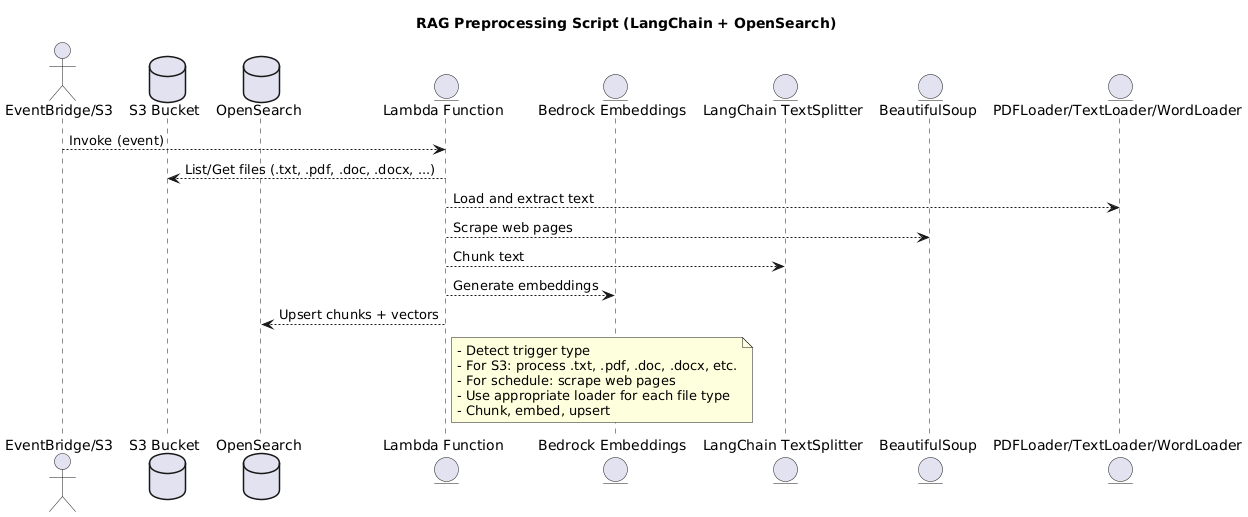
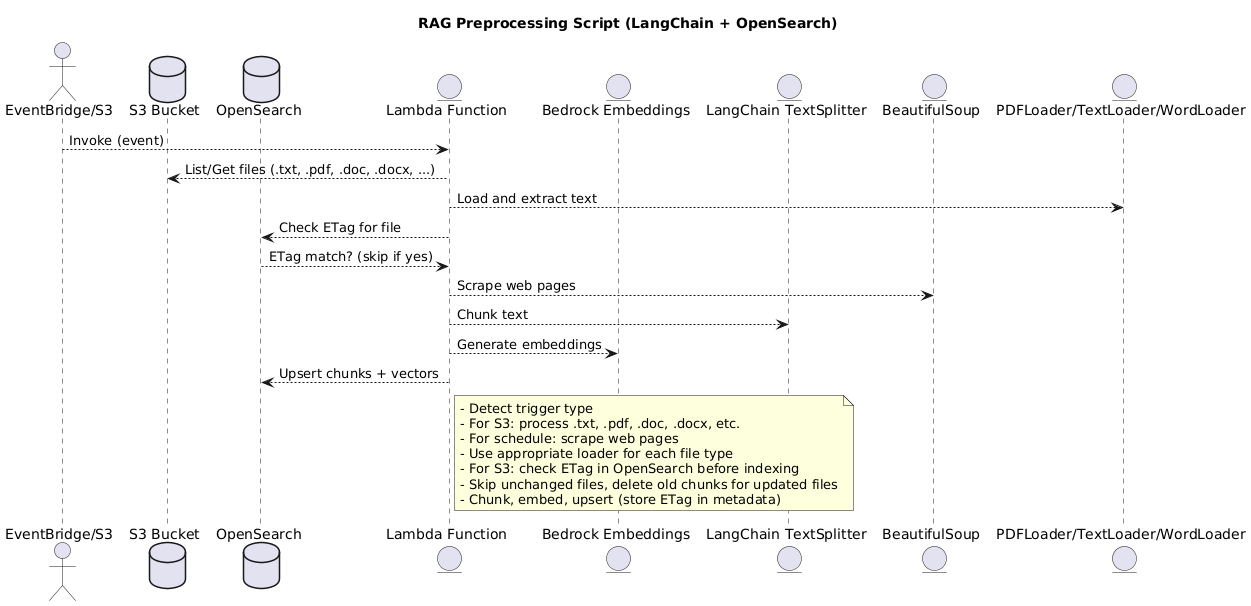
Modified Preprocessing Script

diff --git a/RAGChatbots/Langchain_OpenSearch_Implementation/RAGPreprocessingScript_Langchain.py b/RAGChatbots/Langchain_OpenSearch_Implementation/RAGPreprocessingScript_Langchain.py
@@ -8,22 +8,28 @@ This script preprocesses knowledge base sources (S3 files: .txt, .pdf, .doc, .do
 and stores the resulting vectors in an OpenSearch index for retrieval-augmented generation (RAG) chatbots.
 It is designed to run as an AWS Lambda function, triggered by S3 events or scheduled via EventBridge.
 
+
 Flow Summary:
 -------------
-1. **Trigger**: Invoked by S3 event (file upload) or scheduled EventBridge rule.
+1. **Trigger**: Invoked by S3 event (file upload/update) or scheduled EventBridge rule.
 2. **Source Selection**:
-    - S3 trigger: Processes all .txt, .pdf, .doc, and .docx files in the S3 bucket.
+    - S3 trigger: Processes only the updated .txt, .pdf, .doc, and .docx files in the S3 bucket (using S3 event data).
     - Scheduled trigger: Scrapes and processes specified web pages.
-3. **Text Loading & Chunking**:
+3. **Change Detection & Efficient Indexing**:
+    - For each S3 file, retrieves its ETag (content hash).
+    - Checks OpenSearch for existing chunks with the same filename and ETag.
+    - If already indexed, skips re-indexing.
+    - If changed, deletes old chunks for the file and indexes new ones, storing ETag in metadata.
+4. **Text Loading & Chunking**:
     - Loads text from S3 (.txt, .pdf, .doc, .docx) or scraped web page.
     - Splits text into overlapping chunks using LangChain's `RecursiveCharacterTextSplitter`.
-    - Each chunk is tagged with metadata (source filename or URL).
-4. **Embedding Generation**:
+    - Each chunk is tagged with metadata (source filename or URL, and ETag for S3 files).
+5. **Embedding Generation**:
     - Uses LangChain's `BedrockEmbeddings` (Cohere embed-english-v3 via AWS Bedrock) to generate a vector for each chunk.
-5. **Vector Upsert to OpenSearch**:
+6. **Vector Upsert to OpenSearch**:
     - Chunks and their embeddings are upserted into OpenSearch using LangChain's `OpenSearchVectorSearch` abstraction.
     - If the index does not exist, it is created with k-NN enabled for vector search.
-6. **Completion**:
+7. **Completion**:
     - Logs the number of chunks indexed per source.
     - Ready for retrieval by downstream RAG chatbot.
 
@@ -37,20 +43,24 @@ Key Components:
 - **OpenSearchVectorSearch**: LangChain abstraction for vector similarity search and upsert in OpenSearch.
 - **OpenSearch**: AWS-managed vector database for fast similarity search.
 
+
 Detailed Step-by-Step Flow:
 --------------------------
 1. **Script/Lambda Entry**
     - Entry point is `main(event)` or `lambda_handler(event, context)`.
 
 2. **Trigger Detection**
-    - If the event is an S3 trigger, process S3 files.
+    - If the event is an S3 trigger, process only the updated S3 files referenced in the event.
     - Otherwise, process web pages (scheduled run).
 
-3. **S3 File Processing**
-    - List all objects in the S3 bucket.
-    - For each `.txt`, `.pdf`, `.doc`, `.docx` file:
+3. **S3 File Change Detection & Processing**
+    - For each updated S3 file:
+      - Retrieve its ETag (content hash).
+      - Query OpenSearch for chunks with the same filename and ETag.
+      - If found, skip re-indexing.
+      - If not found or changed, delete old chunks for the file and index new ones, storing ETag in metadata.
       - Download and decode text (using appropriate loader).
-      - Split into chunks with metadata.
+      - Split into chunks with metadata (filename and ETag).
       - Embed and upsert each chunk into OpenSearch.
 
 4. **Web Page Processing**
@@ -61,7 +71,7 @@ Detailed Step-by-Step Flow:
 
 5. **OpenSearch Index Management**
     - Checks if the index exists; creates it with k-NN enabled if not.
-    - Index mapping includes vector, text, and source metadata fields.
+    - Index mapping includes vector, text, source, and ETag metadata fields.
 
 6. **Embedding and Upsert**
     - For each chunk, generates embedding using Bedrock/Cohere.
@@ -121,7 +131,7 @@ import os
 import requests
 from bs4 import BeautifulSoup
 import urllib3
-from langchain_community.document_loaders import TextLoader, PDFLoader, UnstructuredWordDocumentLoader
+from langchain_community.document_loaders import PDFLoader, UnstructuredWordDocumentLoader
 from langchain.text_splitter import RecursiveCharacterTextSplitter
 from langchain_community.embeddings import BedrockEmbeddings
 from langchain_community.vectorstores import OpenSearchVectorSearch
@@ -200,29 +210,69 @@ def load_and_split_text(text, source):
    - Split into chunks with metadata.
    - Embed and upsert each chunk into OpenSearch.
 """
-def process_s3_files():
-    objects = s3.list_objects_v2(Bucket=bucket)
-    for obj in objects.get("Contents", []):
-        key = obj["Key"]
+def process_s3_files(event=None):
+    # Determine which files to process and their ETags
+    keys_to_process = []
+    etags = {}
+    if event and 'Records' in event:
+        for record in event['Records']:
+            s3_info = record['s3']
+            key = s3_info['object']['key']
+            etag = s3_info['object'].get('eTag')
+            keys_to_process.append(key)
+            etags[key] = etag
+    else:
+        objects = s3.list_objects_v2(Bucket=bucket)
+        for obj in objects.get("Contents", []):
+            key = obj["Key"]
+            etag = obj.get("ETag")
+            keys_to_process.append(key)
+            etags[key] = etag
+
+    for key in keys_to_process:
         if key == "kb_index.json":
             continue
         ext = key.strip().lower().split('.')[-1]
-        print(f"Processing file: {key}")
-        text = None
+        etag = etags.get(key)
+        print(f"Processing file: {key} (ETag: {etag})")
+        # Query OpenSearch for existing chunks with this key and ETag
+        query = {
+            "query": {
+                "bool": {
+                    "must": [
+                        {"term": {"source": key}},
+                        {"term": {"etag": etag}}
+                    ]
+                }
+            }
+        }
+        results = opensearch_client.search(index=OPENSEARCH_INDEX, body=query)
+        if results['hits']['total']['value'] > 0:
+            print(f"File {key} with ETag {etag} already indexed. Skipping.")
+            continue  # Already indexed, skip
+
+        # Delete old chunks for this key (if any)
+        delete_query = {
+            "query": {
+                "term": {"source": key}
+            }
+        }
+        opensearch_client.delete_by_query(index=OPENSEARCH_INDEX, body=delete_query)
+
         docs = []
         try:
             file_obj = s3.get_object(Bucket=bucket, Key=key)
             if ext == "txt":
                 text = file_obj["Body"].read().decode("utf-8")
-                docs = load_and_split_text(text, key)
+                docs = text_splitter.create_documents([text], metadatas=[{"source": key, "etag": etag}])
             elif ext == "pdf":
                 with open("/tmp/temp.pdf", "wb") as f:
                     f.write(file_obj["Body"].read())
                 loader = PDFLoader("/tmp/temp.pdf")
                 docs = loader.load()
-                # Add source metadata
                 for d in docs:
                     d.metadata["source"] = key
+                    d.metadata["etag"] = etag
             elif ext in ["doc", "docx"]:
                 with open(f"/tmp/temp.{ext}", "wb") as f:
                     f.write(file_obj["Body"].read())
@@ -230,6 +280,7 @@ def process_s3_files():
                 docs = loader.load()
                 for d in docs:
                     d.metadata["source"] = key
+                    d.metadata["etag"] = etag
         except Exception as e:
             print(f"Failed to process {key}: {e}")
             continue
@@ -243,7 +294,7 @@ def process_s3_files():
                 use_ssl=True,
                 verify_certs=True,
             )
-            print(f"Indexed {len(docs)} chunks from {key}")
+            print(f"Indexed {len(docs)} chunks from {key} (ETag: {etag})")
 
 def scrape_webpage(url):
     try:
